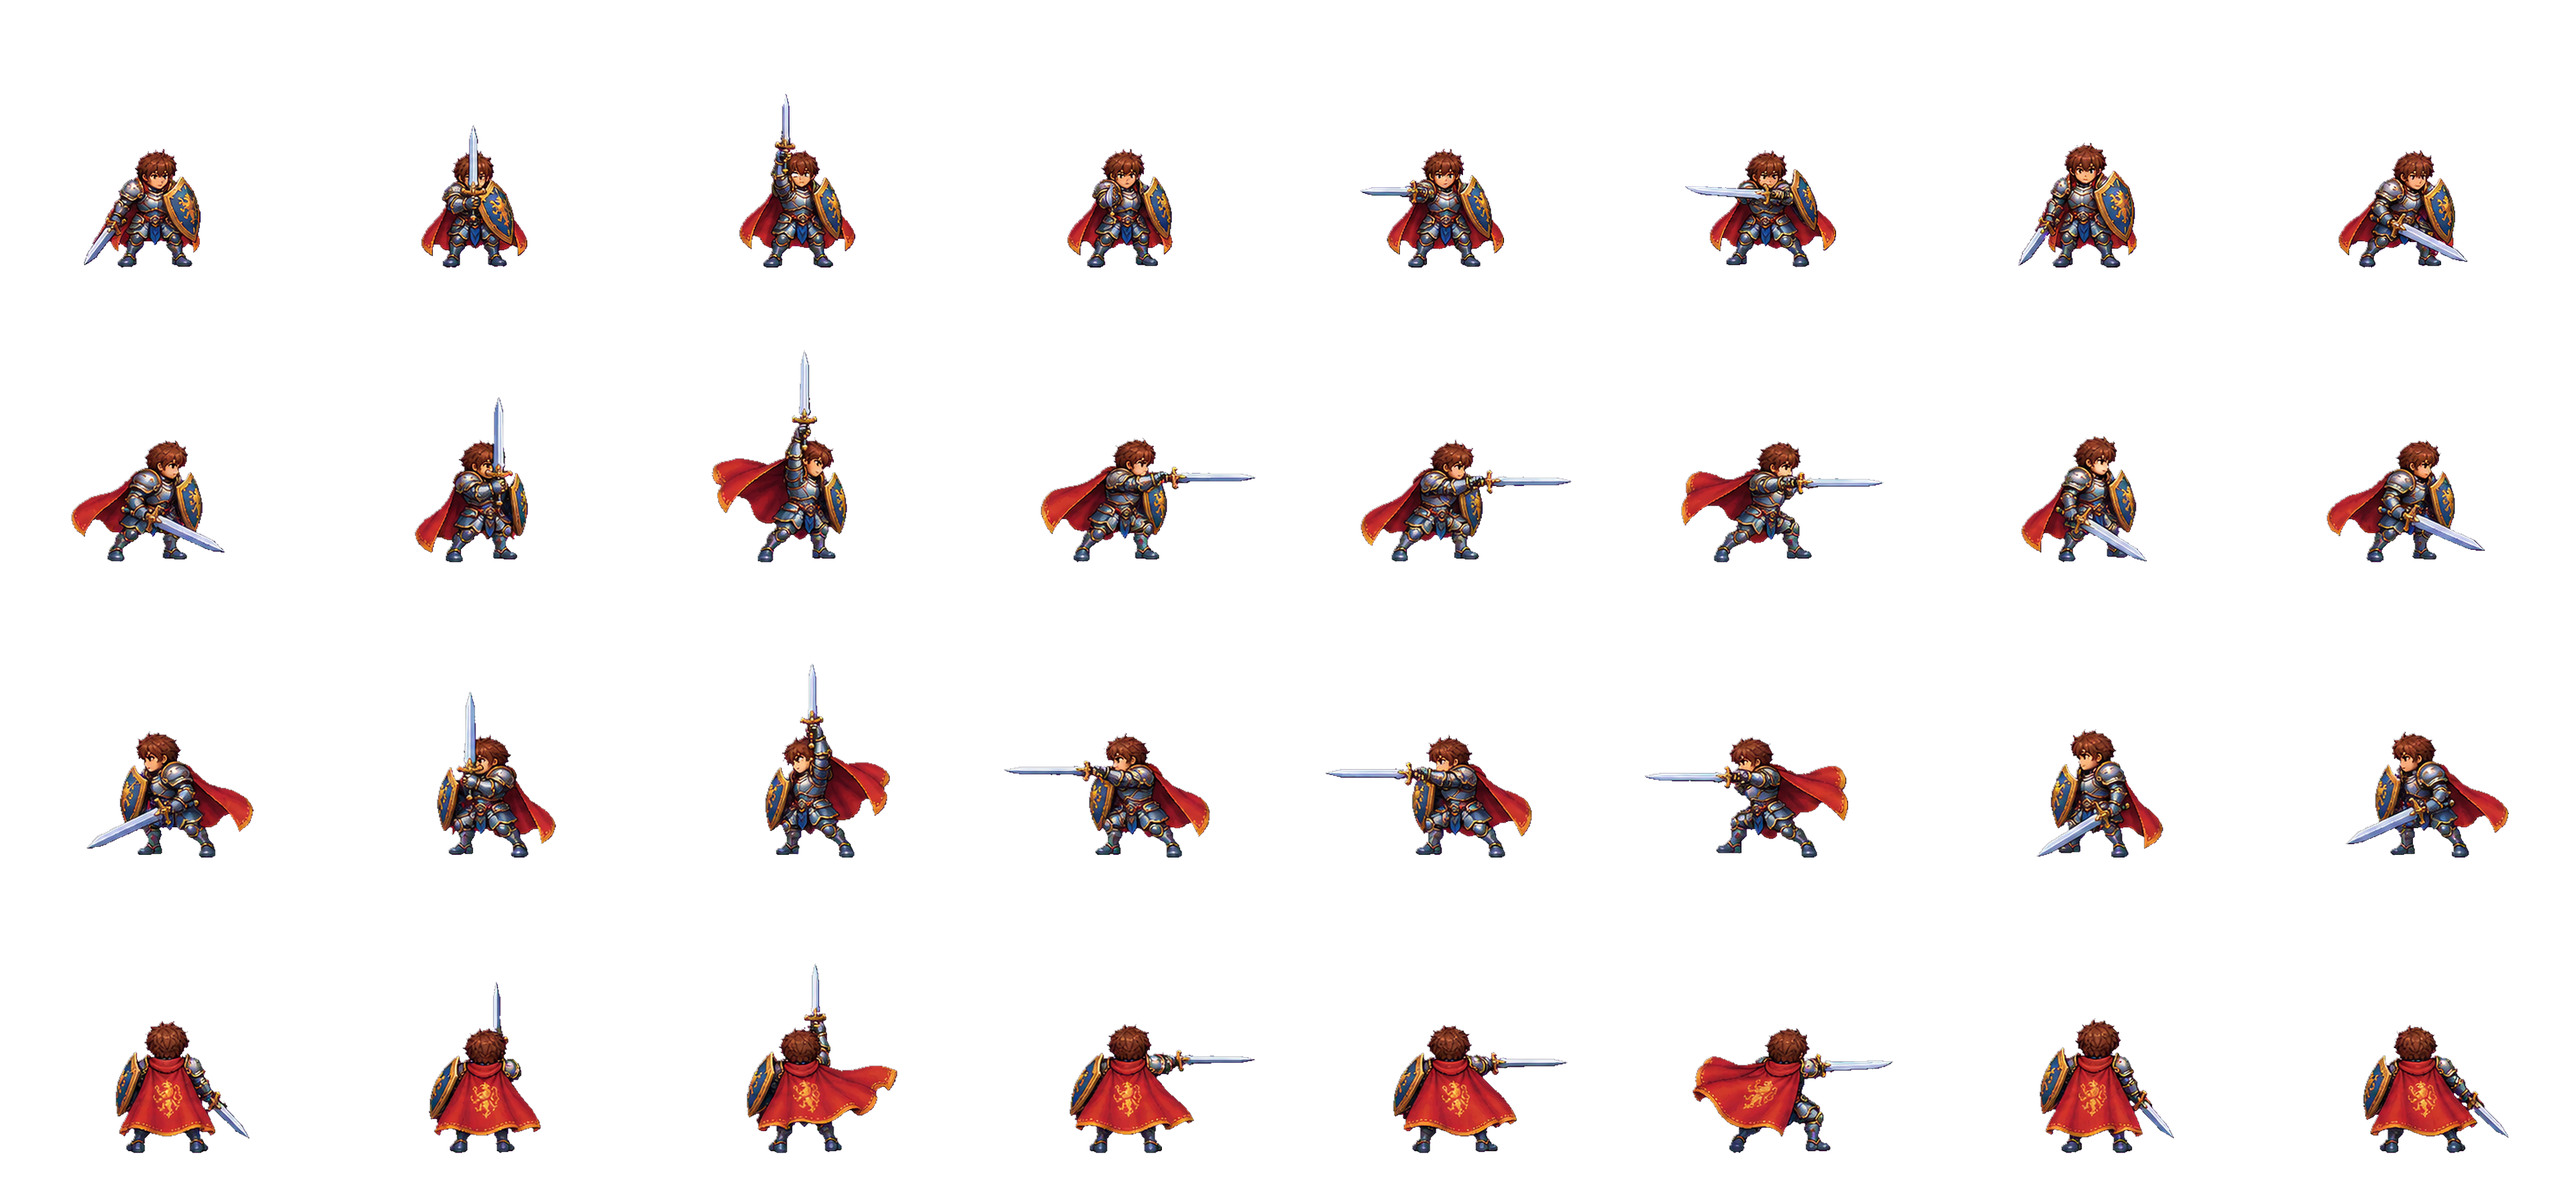
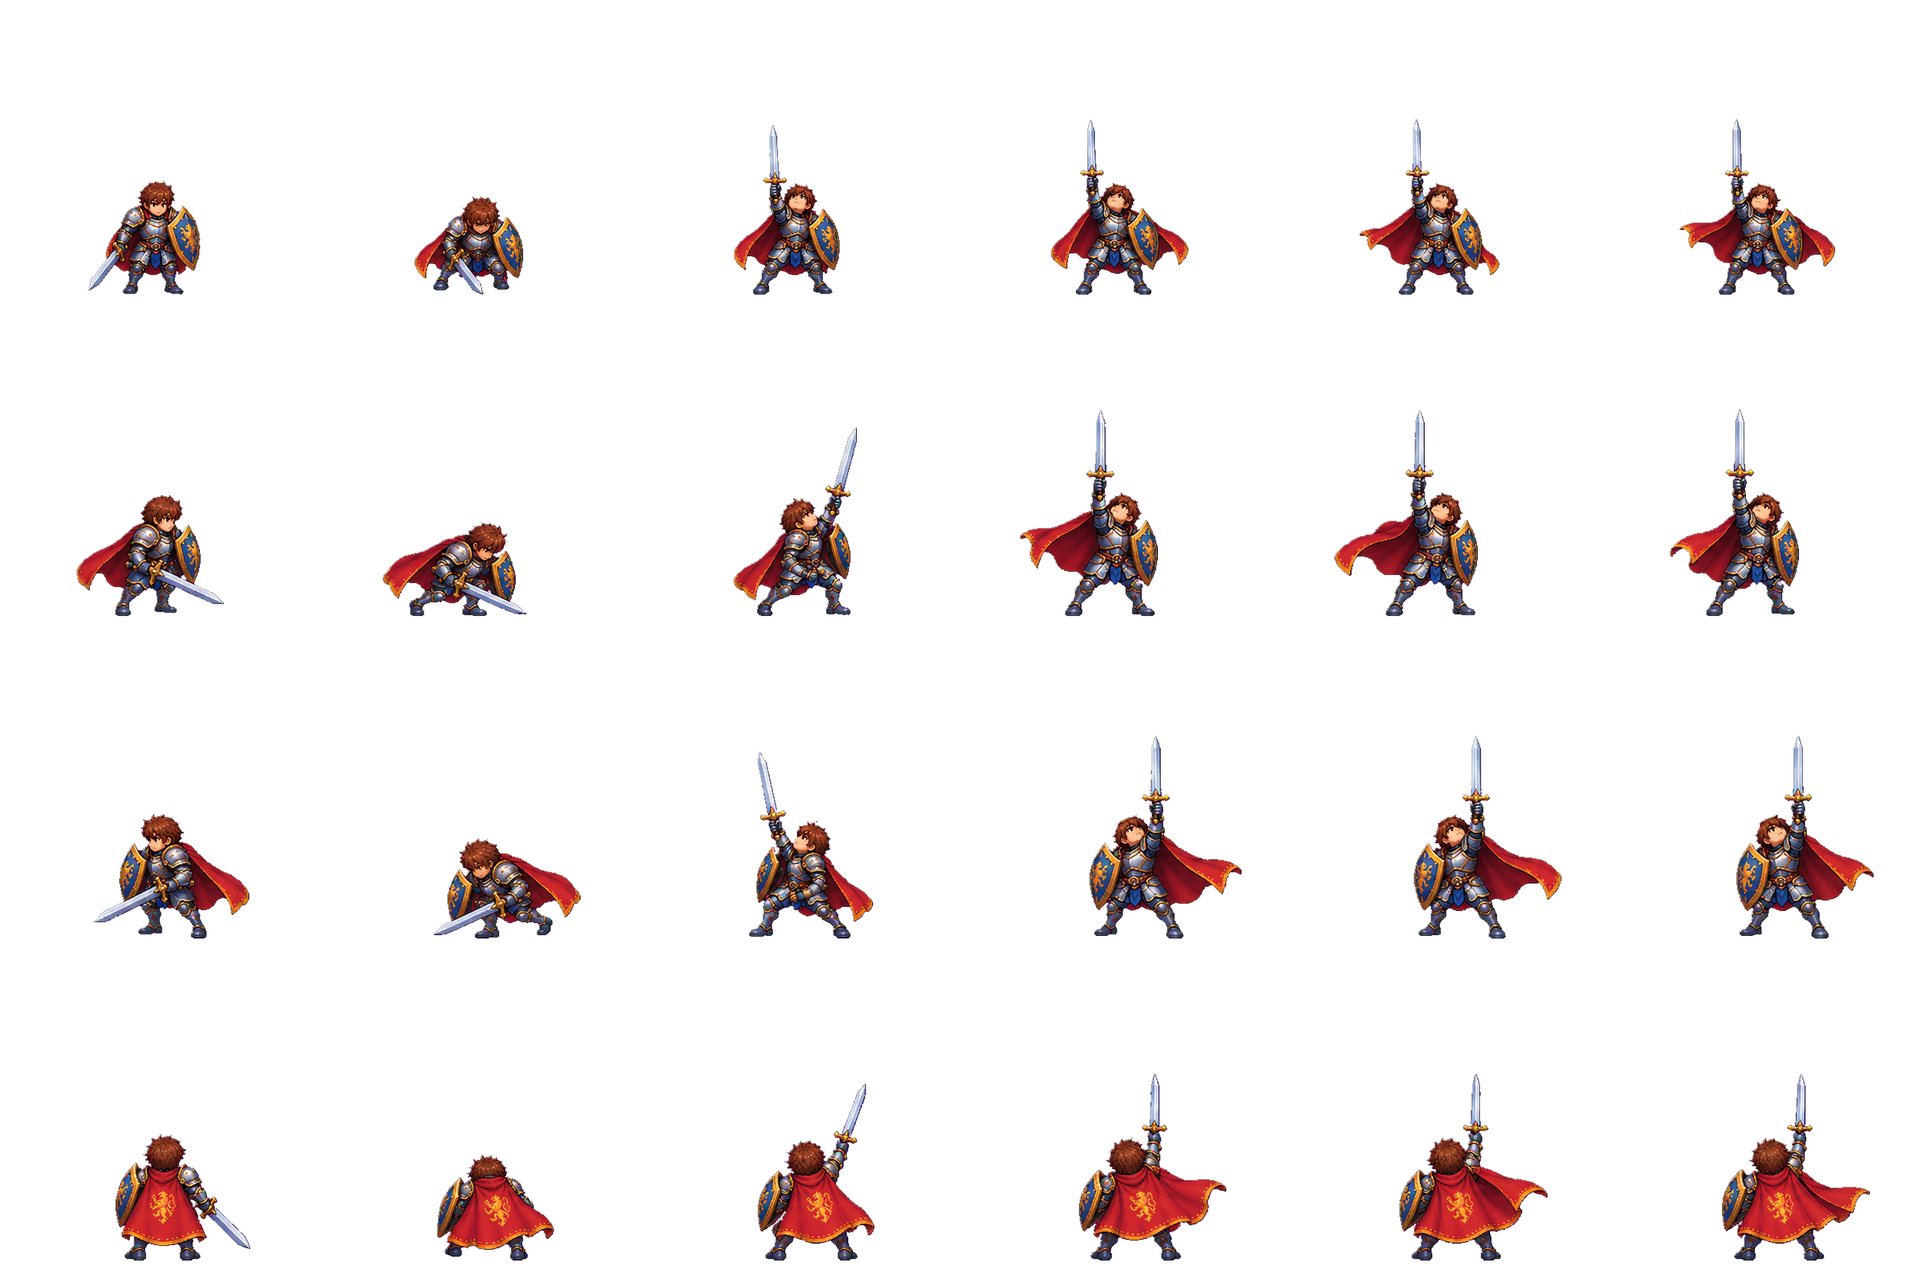
Blade Storm: new hold-the-sword-up body (looking up), painted lightning storm on the caster and painted swords erupting all around; training: dummy removed, swordsman has endless HP
Claude-Session: https://claude.ai/code/session_019q8CMrxghbNzj8w42KsHoP

diff --git a/src/skills/SkillFx.ts b/src/skills/SkillFx.ts
@@ -69,6 +69,8 @@ export function preloadSkillFx(scene: Phaser.Scene): void {
   I('magic-circle', `${F}/impact/magic_circle.png`);
   if (!scene.textures.exists('storm-ring')) scene.load.spritesheet('storm-ring', `${F}/skills/warrior/judgment_blade/ring.png`, { frameWidth: 256, frameHeight: 256 });
   if (!scene.textures.exists('sanctuary-wall')) scene.load.spritesheet('sanctuary-wall', `${F}/skills/warrior/sanctuary/wall.png`, { frameWidth: 256, frameHeight: 512 });
+  if (!scene.textures.exists('bs-storm')) scene.load.spritesheet('bs-storm', `${F}/skills/warrior/blade_storm/storm.png`, { frameWidth: 280, frameHeight: 440 });
+  if (!scene.textures.exists('bs-erupt')) scene.load.spritesheet('bs-erupt', `${F}/skills/warrior/blade_storm/erupt_a.png`, { frameWidth: 250, frameHeight: 667 });
   if (!scene.textures.exists('titan-dragon')) scene.load.spritesheet('titan-dragon', `${F}/skills/warrior/titans_verdict/dragon.png`, { frameWidth: 280, frameHeight: 440 });
   if (!scene.textures.exists('titan-cutin')) scene.load.image('titan-cutin', `${F}/skills/warrior/titans_verdict/cutin.png`);
   if (!scene.textures.exists('holy-aura')) scene.load.spritesheet('holy-aura', `${F}/skills/warrior/radiant_blade/aura.png`, { frameWidth: 250, frameHeight: 667 });
@@ -139,8 +141,9 @@ export class SkillFx {
     else if (s.id === 'war_cry') this.roar(r);
     else if (s.id === 'radiant_blade') { /* lightning fired by the scene at the real sword tip */ }
     else if (s.id === 'sanctuary') this.traceArc(r);
+    else if (s.id === 'blade_storm' && this.scene.textures.exists('bs-storm')) this.lightningStorm(r);
     else if (s.id === 'titans_verdict' && this.scene.textures.exists('titan-dragon')) this.dragon(r);
-    else if (s.id !== 'leap_crash' && !(s.id === 'titans_verdict' && this.scene.textures.exists('titan-dragon'))) this.castVfx(r);
+    else if (s.id !== 'leap_crash' && s.id !== 'blade_storm' && !(s.id === 'titans_verdict' && this.scene.textures.exists('titan-dragon'))) this.castVfx(r);
     else this.aura(r);
     if (s.slot === 7) this.ultimateStage(r);
   }
@@ -255,6 +258,18 @@ export class SkillFx {
       for (let i = 0; i < 3; i++) this.scene.time.delayedCall(i * 110, () => this.shockwave(c.x, c.y, 200 + i * 70, i === 1 ? 0xffffff : 0xffd36a));
       (this.cam ?? this.scene.cameras.main).shake(260, 0.008);
     });
+  }
+
+  /** Blade Storm: the painted lightning storm crashes down onto the raised sword and rages for the whole hold. */
+  private lightningStorm(r: CastRun): void {
+    const T = r.timings, c = this.casterPos(r.attackerId) ?? r.origin;
+    const img = this.scene.add.image(c.x, c.y + 6, 'bs-storm', 12).setOrigin(0.5, 342 / 440).setBlendMode(Phaser.BlendModes.ADD).setDisplaySize(360, 570).setDepth(c.y - 1).setAlpha(0.72);
+    const fr = [12, 0, 1, 2, 3, 4, 5, 6, 7, 8, 9, 10, 11, 11], up = T.startup;
+    const fms = [up * 0.55, up * 0.15, up * 0.15, up * 0.15, 90, 90, 90, 70, 70, 70, 70, 70, 70, 260];
+    img.setData('a0', 0.72);
+    this.anims.push({ img, t: 0, total: fms.reduce((x, y) => x + y, 0), frames: fr, frameMs: fms, fadeLast: 260, loop: [6, 11], until: T.startup + T.active,
+      follow: () => { const p = this.casterPos(r.attackerId); return p ? { x: p.x, y: p.y + 6, z: 0 } : null; } });
+    this.scene.time.delayedCall(Math.round(up * 0.85), () => (this.cam ?? this.scene.cameras.main).shake(220, 0.007));
   }
 
   /** Titan's Verdict: a colossal lightning dragon dives from the sky onto the target zone (after the cut-in and screen split). */
@@ -386,16 +401,16 @@ export class SkillFx {
     this.spark(IMPACT.warrior.key, x, y - 30, IMPACT.warrior.frames, 90, 0.9);
   }
 
-  /** Blade field: a sword of light bursts up out of the ground, hangs a moment, then fades. */
+  /** Blade field: a painted sword of light erupts from the ground, stands, then shatters into shards. */
   risingBlade(x: number, y: number, delay = 0): void {
-    ensureLightBeam(this.scene);
     this.scene.time.delayedCall(delay, () => {
-      const len = 90 + Math.random() * 40, tilt = -90 + (Math.random() - 0.5) * 24;
-      const glow = this.scene.add.image(x, y, 'light-beam').setOrigin(0, 0.5).setAngle(tilt).setBlendMode(Phaser.BlendModes.ADD).setTint(0xffc860).setDisplaySize(4, 30).setDepth(y + 1).setAlpha(0.8);
-      const core = this.scene.add.image(x, y, 'light-beam').setOrigin(0, 0.5).setAngle(tilt).setBlendMode(Phaser.BlendModes.ADD).setDisplaySize(4, 11).setDepth(y + 1.01);
-      this.scene.tweens.add({ targets: [glow, core], displayWidth: len, duration: 90, ease: 'Back.easeOut' });
-      this.spark(IMPACT.warrior.key, x, y - 8, IMPACT.warrior.frames, 70, 0.8);
-      this.scene.tweens.add({ targets: [glow, core], alpha: 0, delay: 380, duration: 260, onComplete: () => { glow.destroy(); core.destroy(); } });
+      if (!this.scene.textures.exists('bs-erupt')) return;
+      const s = 0.8 + Math.random() * 0.4;
+      const img = this.scene.add.image(x, y, 'bs-erupt', 0).setOrigin(0.5, 560 / 667).setDisplaySize(125 * s, 335 * s).setDepth(y + 1); // solid painted sword (readable on any floor)
+      const glow = this.scene.add.image(x, y, 'bs-erupt', 0).setOrigin(0.5, 560 / 667).setBlendMode(Phaser.BlendModes.ADD).setDisplaySize(125 * s, 335 * s).setDepth(y + 1.01).setAlpha(0.45);
+      glow.setData('a0', 0.45);
+      const fms = [50, 50, 60, 90, 110, 110, 120, 140];
+      this.anims.push({ img, glow, t: 0, total: fms.reduce((p, q) => p + q, 0), frames: [0, 1, 2, 3, 4, 5, 6, 7], frameMs: fms, fadeLast: 140 });
     });
   }
 

diff --git a/src/scenes/LegacyCourtyardScene.ts b/src/scenes/LegacyCourtyardScene.ts
@@ -193,7 +193,7 @@ export class LegacyCourtyardScene extends Phaser.Scene {
       this.dummyBar = this.add.graphics().setDepth(TOP_DEPTH);
       const dk = newKin(D.x, D.y);
       this.dummyState = { hp: D.maxHp, alive: true, flash: 0, respawn: 0, kin: dk, body: Object.assign(new CombatBody(dk, false), { maxHp: D.maxHp }) };
-      this.drawDummyBar();
+      this.dummyState.alive = false; this.dummy.setVisible(false); this.dummyBar.setVisible(false); // training: the swordsman only
       this.enemy = new CursedSwordsman(this);
     }
 
@@ -504,8 +504,7 @@ export class LegacyCourtyardScene extends Phaser.Scene {
         l.left--; l.next += L.everyMs;
         if (L.at === 'caster') { const c = this.casterPos(l.run.attackerId); if (c) { l.x = c.x; l.y = c.y; } } // the quake travels with you
         if (l.run.skill.id === 'blade_storm') { // swords erupt all around the caster + lightning crackles
-          for (let n = 0; n < 4; n++) { const a = Math.random() * Math.PI * 2, rr = 50 + Math.random() * (L.radius - 50); this.fx!.risingBlade(l.x + Math.cos(a) * rr, l.y + Math.sin(a) * rr * 0.6, n * 45); }
-          if (l.left % 2 === 0) { const a = Math.random() * Math.PI * 2, rr = 40 + Math.random() * 130; this.fx!.lightningAt(l.x + Math.cos(a) * rr, l.y + Math.sin(a) * rr * 0.6, true); }
+          for (let n = 0; n < 2; n++) { const a = (l.left * 2.4 + n * Math.PI) + (Math.random() - 0.5) * 0.9, rr = 70 + Math.random() * (L.radius - 40); this.fx!.risingBlade(l.x + Math.cos(a) * rr, l.y + Math.sin(a) * rr * 0.6, n * 90); }
         }
         else if (l.run.skill.id !== 'ground_breaker') this.fx!.crack(l.x, l.y, L.radius); // the quake has one steady rotating ring instead of per-tick sparks
         if (l.run.skill.id === 'ground_breaker' && l.run.own && this.dead < 0) { // the quake mends the warrior: +2 HP per pulse
@@ -544,7 +543,7 @@ export class LegacyCourtyardScene extends Phaser.Scene {
     let tint: number | null = null, fill = false, alpha = 1;
     if (this.flash >= 0) { if (this.flash < P6.hitFlashWhiteMs) { tint = 0xffffff; fill = true; } else tint = 0xff6a6a; }
     else if (this.body.hard.active(this.simMs)) tint = this.body.hard.kind === 'freeze' ? 0x9fd8ff : 0xb6ffb0;
-    else if (run && run.skill.armor && run.elapsed >= run.skill.armor[0] && run.elapsed < run.skill.armor[1] + 220) {
+    else if (run && run.skill.armor && run.skill.id !== 'blade_storm' && run.elapsed >= run.skill.armor[0] && run.elapsed < run.skill.armor[1] + 220) { // the storm itself lights him: no tint
       // armor glow fades in/out smoothly (a hard on/off read as a flicker at the end of the move)
       const a0 = run.skill.armor[0], a1 = run.skill.armor[1], e = run.elapsed;
       const w = Math.max(0, Math.min(1, (e - a0) / 120, e < a1 ? 1 : 1 - (e - a1) / 220));
@@ -1177,7 +1176,7 @@ export class LegacyCourtyardScene extends Phaser.Scene {
     ds.hp = Math.max(0, ds.hp - dmg);
     ds.flash = D.hitFlashMs;
     this.dummy!.setTintFill(0xffffff);
-    if (ds.hp === 0) { ds.alive = false; this.dummy!.setVisible(false); ds.respawn = D.respawnDelayMs; }
+    if (ds.hp === 0) { ds.alive = false; this.dummy!.setVisible(false); ds.respawn = 0; }
     this.drawDummyBar();
   }
 
@@ -1197,7 +1196,7 @@ export class LegacyCourtyardScene extends Phaser.Scene {
       this.dummy.setPosition(D.x, D.y - k.z).setRotation(tilt).setDepth(actorDepth(D.x, D.y, k.z));
       if (k.z > 0 || ds.body.state !== 'free') this.drawDummyBar();
     }
-    if (!ds.alive) {
+    if (!ds.alive && ds.respawn > 0) { // the training dummy is removed (never respawns)
       ds.respawn -= ms;
       if (ds.respawn <= 0 && !(Math.hypot(this.kin.x - D.x, this.kin.y - D.y) < D.collisionRadius + D.playerFootRadius)) {
         ds.hp = D.maxHp; ds.alive = true; ds.body.reset(); ds.kin.z = 0; ds.kin.vz = 0; ds.kin.grounded = true;

diff --git a/src/game/Body.ts b/src/game/Body.ts
@@ -180,7 +180,7 @@ const SKILL_PLAN: Record<string, { st: number[]; ac: number[]; rc: number[] }> =
   ground_breaker: { st: [0, 1, 2, 2, 3], ac: [4, 5, 5, 5], rc: [5, 6, 7] },
   dash_slash: { st: [0, 1], ac: [2, 3, 4, 5], rc: [5, 6, 6, 6, 7] },
   shield_slam: { st: [0, 1, 2], ac: [3, 3, 4, 4, 5], rc: [6, 7] },
-  blade_storm: { st: [0, 1, 2], ac: [2], rc: [6, 7] }, // sword raised to the sky and held for the whole storm
+  blade_storm: { st: [0, 1, 2], ac: Array.from({ length: 30 }, (_, i) => 3 + (i % 3)), rc: [2, 1, 0] }, // sword to the sky, looking up, cape fluttering for the whole storm
   wave_slash: { st: [0, 1, 1, 1, 1, 1, 1, 2], ac: [3, 4, 4, 5], rc: [5, 6, 7] },
   iron_grip: { st: [0, 1], ac: [2, 3, 3, 4, 5, 5], rc: [6, 7] },
   radiant_blade: { st: [0, 1, 2, 3, 3, 4, 4, 4, 4, 5], ac: [6], rc: [6, 7, 7] }, // raise, hold for the lightning, brace, sweep down, ready

diff --git a/src/world/CursedSwordsman.ts b/src/world/CursedSwordsman.ts
@@ -88,7 +88,8 @@ export class CursedSwordsman {
   /** HP change from a confirmed hit (reactions already applied to `body` by the scene). */
   damage(dmg: number): void {
     if (!this.alive) return;
-    this.hp = Math.max(0, this.hp - dmg);
+    this.hp = Math.max(1, this.hp - dmg); // training opponent: endless HP (never dies)
+    if (this.hp <= 1) this.hp = this.maxHp;
     this.flashLeft = C.hitFlashMs;
     this.sprite.setTintFill(0xffffff);
     this.attackHit = true; // a hit interrupts the pending strike
